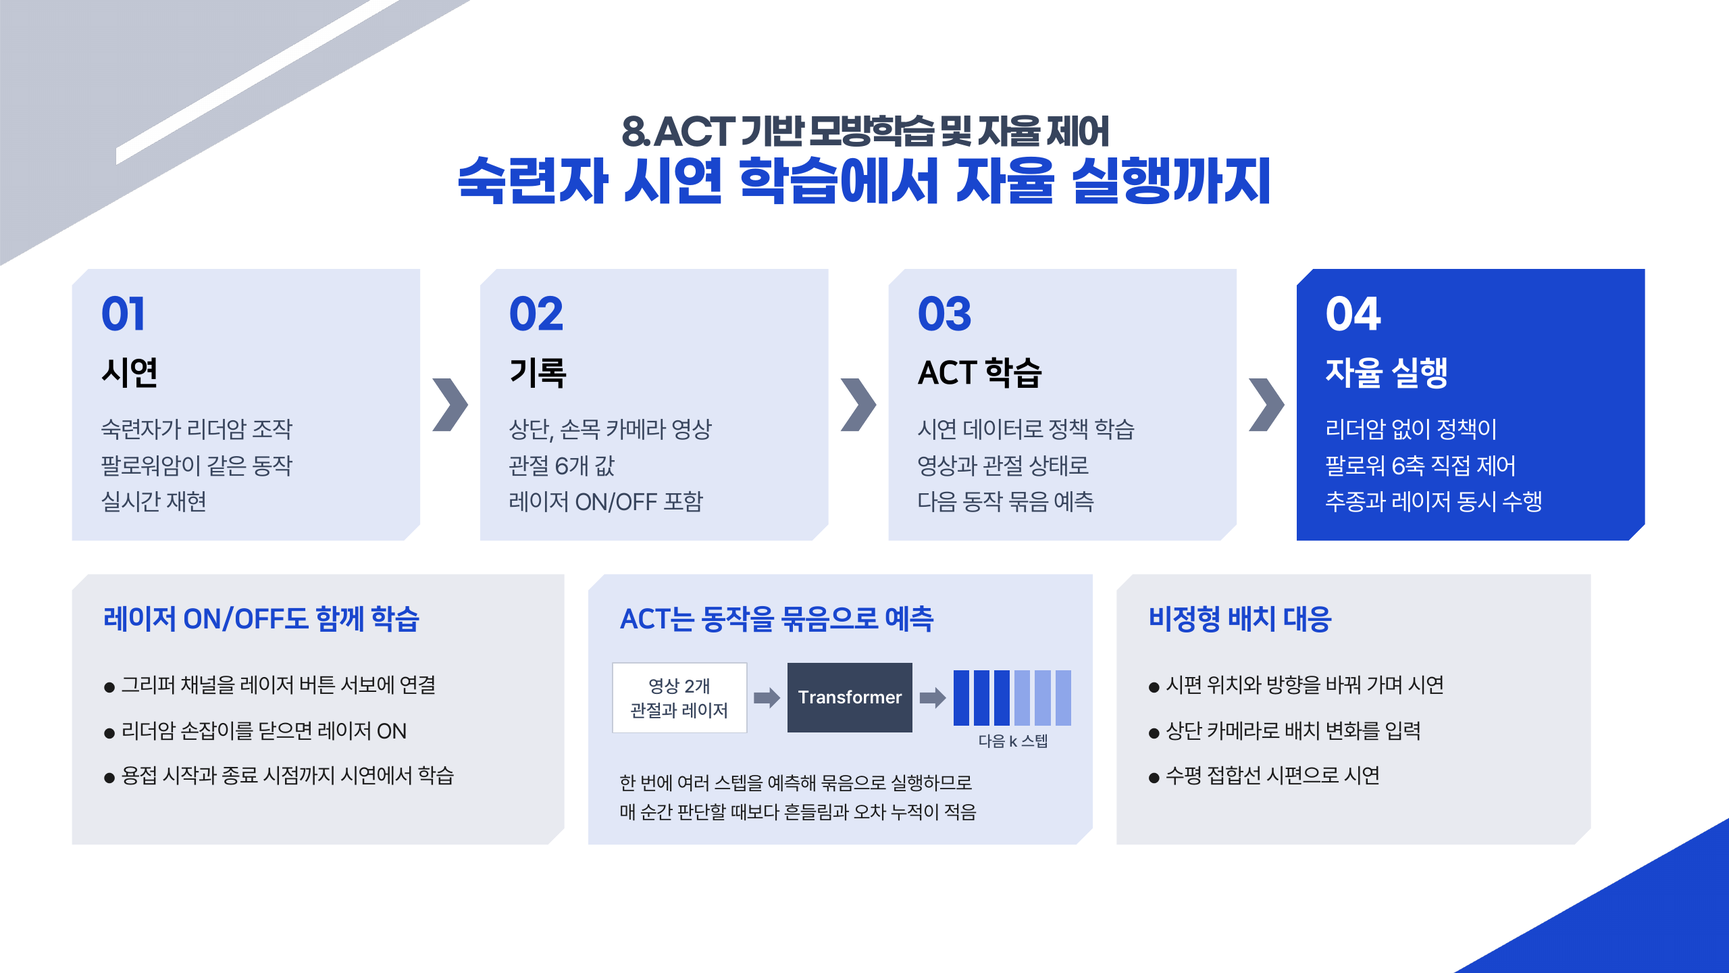
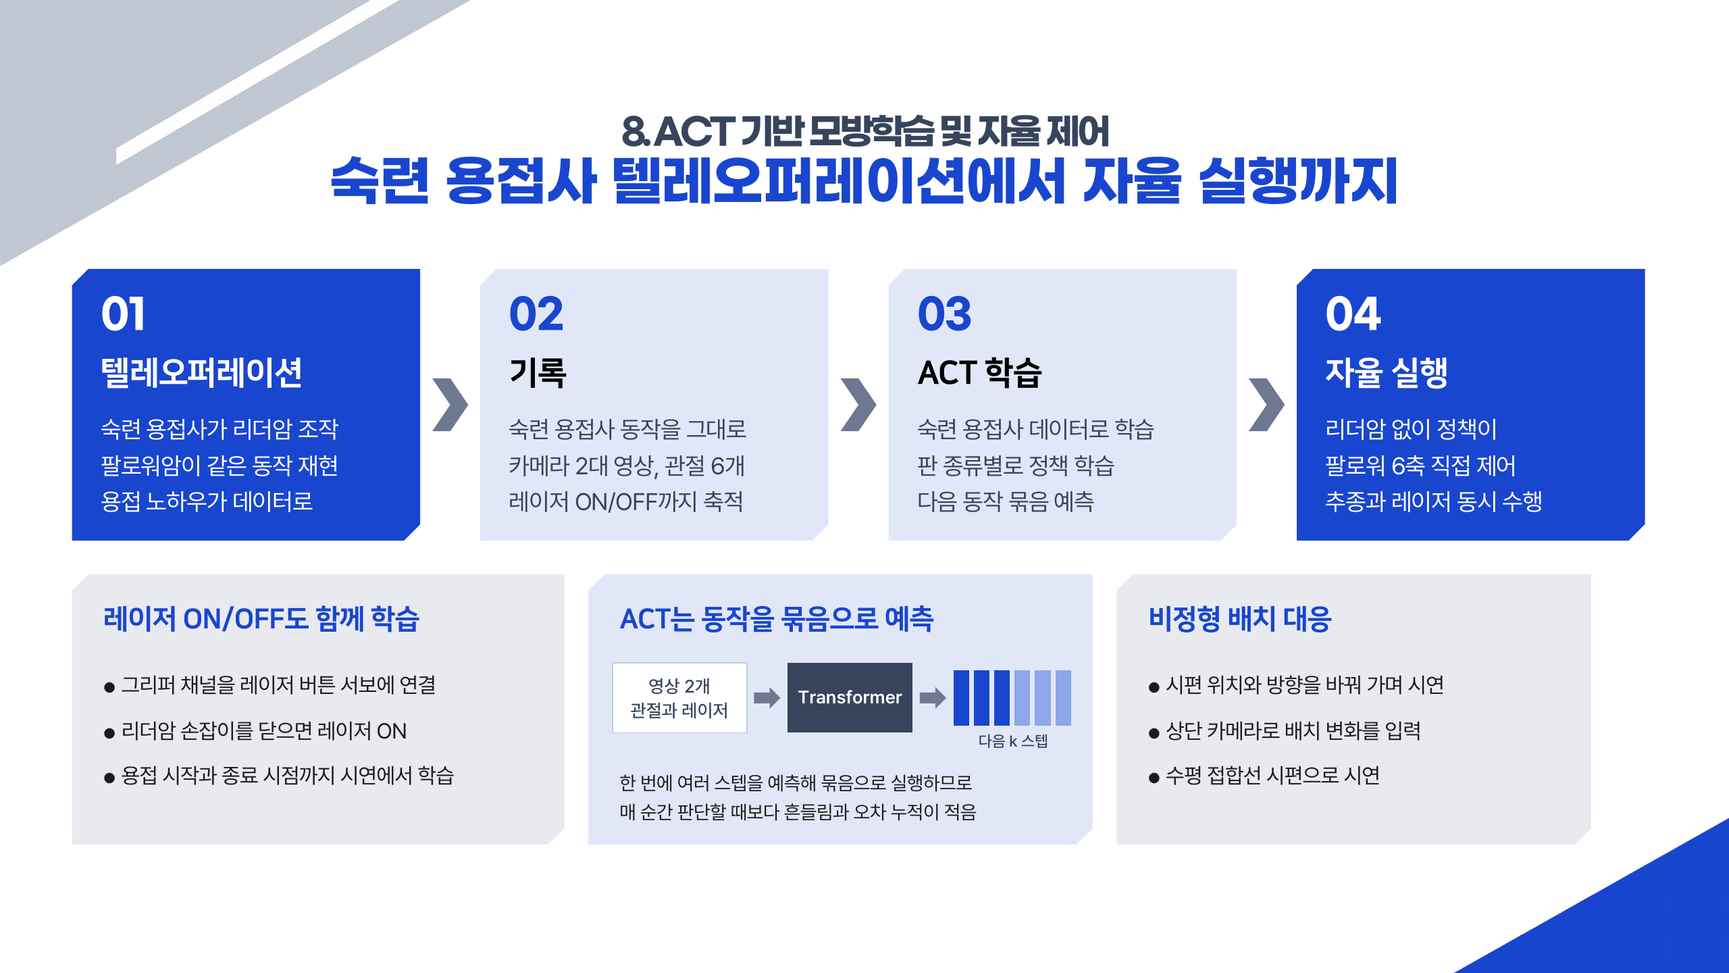
숙련 용접사의 텔레오퍼레이션으로 데이터를 쌓았다는 점을 9장과 15장에서 강조
- 15장: 부제를 '숙련 용접사 텔레오퍼레이션에서 자율 실행까지'로, 1단계를
  텔레오퍼레이션으로 바꿔 자율 실행과 함께 파란 카드로 강조
- 9장: ACT 카드에 '숙련 용접사 데이터' 표시와 강조 문구 추가
- 소개 페이지 개요와 데이터 수집 표도 같은 내용으로

diff --git a/index.html b/index.html
@@ -49,52 +49,52 @@
 </head>
 <body>
 <main class="stage" id="stage">
-  <img class="slide" src="deck/final/01.png?v=11130909" alt="2026 IRC 지능로봇대회 매니퓰레이터 종목. 제조 디지털 전환(DX) 6축 자율용접 로봇. 손태산, 김광빈, 김동희, 왕혜영">
-  <img class="slide" src="deck/final/02.png?v=11130909" alt="목차" loading="lazy">
-  <img class="slide" src="deck/final/03.png?v=11130909" alt="1. 프로젝트 개요. 6축 자율용접 로봇. 왼쪽은 코너 시편의 용접선을 초록 레이저로 따라가는 로봇 사진" loading="lazy">
-  <img class="slide" src="deck/final/04.png?v=11130909" alt="2. 프로젝트 수행 배경: 숙련 기술의 단절과 기존 자동용접의 한계. 실내 철골 제작공장 자동용접 사진, 강교량 야외 건설현장 사진" loading="lazy">
-  <img class="slide" src="deck/final/05.png?v=11130909" alt="3. 프로젝트 수행 필요성: 숙련 기술의 계승과 비정형 환경 대응을 위한 자율용접 기술의 필요성" loading="lazy">
+  <img class="slide" src="deck/final/01.png?v=11130919" alt="2026 IRC 지능로봇대회 매니퓰레이터 종목. 제조 디지털 전환(DX) 6축 자율용접 로봇. 손태산, 김광빈, 김동희, 왕혜영">
+  <img class="slide" src="deck/final/02.png?v=11130919" alt="목차" loading="lazy">
+  <img class="slide" src="deck/final/03.png?v=11130919" alt="1. 프로젝트 개요. 6축 자율용접 로봇. 왼쪽은 코너 시편의 용접선을 초록 레이저로 따라가는 로봇 사진" loading="lazy">
+  <img class="slide" src="deck/final/04.png?v=11130919" alt="2. 프로젝트 수행 배경: 숙련 기술의 단절과 기존 자동용접의 한계. 실내 철골 제작공장 자동용접 사진, 강교량 야외 건설현장 사진" loading="lazy">
+  <img class="slide" src="deck/final/05.png?v=11130919" alt="3. 프로젝트 수행 필요성: 숙련 기술의 계승과 비정형 환경 대응을 위한 자율용접 기술의 필요성" loading="lazy">
   <div class="slide">
-    <img src="deck/final/06.png?v=11130909" alt="4. 개발 목표 및 차별성: 룰 베이스를 넘어 숙련 행동 학습으로. OPTi3 용접로봇 전시 시연과 실제 아크 용접 영상, 기존 룰 베이스와 본 프로젝트 비교, 최종 개발 목표" loading="lazy">
+    <img src="deck/final/06.png?v=11130919" alt="4. 개발 목표 및 차별성: 룰 베이스를 넘어 숙련 행동 학습으로. OPTi3 용접로봇 전시 시연과 실제 아크 용접 영상, 기존 룰 베이스와 본 프로젝트 비교, 최종 개발 목표" loading="lazy">
     <!-- PPT 6장 영상 자리(x 60/468, y 270, 392×294pt / 1440×810pt)에 맞춰 올린 6초~20초 구간 GIF -->
-    <img class="clip" style="left:4.1667%; top:33.333%; width:27.222%; height:36.296%;" src="deck/img/opti3_demo.gif?v=11130909" alt="OPTi3 전시 시연 6초에서 20초 구간" loading="lazy">
-    <img class="clip" style="left:32.5%; top:33.333%; width:27.222%; height:36.296%;" src="deck/img/opti3_arc.gif?v=11130909" alt="OPTi3 실제 아크 용접 6초에서 20초 구간" loading="lazy">
+    <img class="clip" style="left:4.1667%; top:33.333%; width:27.222%; height:36.296%;" src="deck/img/opti3_demo.gif?v=11130919" alt="OPTi3 전시 시연 6초에서 20초 구간" loading="lazy">
+    <img class="clip" style="left:32.5%; top:33.333%; width:27.222%; height:36.296%;" src="deck/img/opti3_arc.gif?v=11130919" alt="OPTi3 실제 아크 용접 6초에서 20초 구간" loading="lazy">
   </div>
-  <img class="slide" src="deck/final/07.png?v=11130909" alt="5. 개발 대상 및 자율 작업 시나리오: 수평 접합선에 대응하는 자율용접 작업 구현. 3면 직각 시편과 T형 필릿 시편" loading="lazy">
-  <img class="slide" src="deck/final/08.png?v=11130909" alt="6. 시스템 구성 및 하드웨어 설계: 자율용접 로봇 시스템 아키텍처. 영상은 V4L2로 캡처해 ZMQ로 나눠 주고, YOLO가 판 종류를 판정해 ACT 정책을 고르며 용접선 끝점을 표시함. 그 영상과 손목 영상으로 ACT 정책이 다음 동작을 냄. 손 검출 시 정지, 진행 표시와 영상은 FastAPI 웹 대시보드로" loading="lazy">
-  <img class="slide" src="deck/final/09.png?v=11130909" alt="6. 시스템 구성 및 하드웨어 설계: 역할을 나눈 세 가지 AI. YOLO 용접선 검출(판 종류 판정과 정책 선택, 끝점 표시), ACT 모방학습(판 종류별 정책으로 제어), 손 검출 인터록(안전)" loading="lazy">
-  <img class="slide" src="deck/final/10.png?v=11130909" alt="6. 시스템 구성 및 하드웨어 설계: 하드웨어 설계. SolidWorks 조립 기반 6축 매니퓰레이터와 레이저 엔드이펙터 렌더, 엔드이펙터 CAD, 매니퓰레이터, 엔드이펙터, 카메라, 개선 내용" loading="lazy">
-  <img class="slide" src="deck/final/11.png?v=11130909" alt="6. 시스템 구성 및 하드웨어 설계: 직접 개선한 기술. 엔드이펙터 설계 변천 v1, v2, v3, 최종 레이저 일체형" loading="lazy">
+  <img class="slide" src="deck/final/07.png?v=11130919" alt="5. 개발 대상 및 자율 작업 시나리오: 수평 접합선에 대응하는 자율용접 작업 구현. 3면 직각 시편과 T형 필릿 시편" loading="lazy">
+  <img class="slide" src="deck/final/08.png?v=11130919" alt="6. 시스템 구성 및 하드웨어 설계: 자율용접 로봇 시스템 아키텍처. 영상은 V4L2로 캡처해 ZMQ로 나눠 주고, YOLO가 판 종류를 판정해 ACT 정책을 고르며 용접선 끝점을 표시함. 그 영상과 손목 영상으로 ACT 정책이 다음 동작을 냄. 손 검출 시 정지, 진행 표시와 영상은 FastAPI 웹 대시보드로" loading="lazy">
+  <img class="slide" src="deck/final/09.png?v=11130919" alt="6. 시스템 구성 및 하드웨어 설계: 역할을 나눈 세 가지 AI. YOLO 용접선 검출(판 종류 판정과 정책 선택, 끝점 표시), ACT 모방학습(숙련 용접사 텔레오퍼레이션 데이터로 학습, 판 종류별 정책으로 제어), 손 검출 인터록(안전)" loading="lazy">
+  <img class="slide" src="deck/final/10.png?v=11130919" alt="6. 시스템 구성 및 하드웨어 설계: 하드웨어 설계. SolidWorks 조립 기반 6축 매니퓰레이터와 레이저 엔드이펙터 렌더, 엔드이펙터 CAD, 매니퓰레이터, 엔드이펙터, 카메라, 개선 내용" loading="lazy">
+  <img class="slide" src="deck/final/11.png?v=11130919" alt="6. 시스템 구성 및 하드웨어 설계: 직접 개선한 기술. 엔드이펙터 설계 변천 v1, v2, v3, 최종 레이저 일체형" loading="lazy">
   <div class="slide">
-    <img src="deck/final/12.png?v=11130909" alt="7. 실시간 작업 모니터링: 웹 대시보드로 보는 영상과 로봇 상태" loading="lazy">
+    <img src="deck/final/12.png?v=11130919" alt="7. 실시간 작업 모니터링: 웹 대시보드로 보는 영상과 로봇 상태" loading="lazy">
     <!-- PPT 12장 대시보드 카메라 칸에 올린 실제 화면 녹화 GIF(코너 시편, 3배속) -->
-    <img class="clip" style="left:4.7222%; top:35.0617%; width:25.9722%; height:25.9259%;" src="deck/img/corner_dash_top.gif?v=11130909" alt="상단 카메라 실제 화면. 코너 시편 용접선 두 개가 파란색에서 빨간색으로 바뀜, 3배속" loading="lazy">
-    <img class="clip" style="left:31.8056%; top:35.0617%; width:25.9722%; height:25.9259%;" src="deck/img/corner_dash_wrist.gif?v=11130909" alt="손목 카메라 실제 화면. 시편 위 초록 레이저 점, 3배속" loading="lazy">
+    <img class="clip" style="left:4.7222%; top:35.0617%; width:25.9722%; height:25.9259%;" src="deck/img/corner_dash_top.gif?v=11130919" alt="상단 카메라 실제 화면. 코너 시편 용접선 두 개가 파란색에서 빨간색으로 바뀜, 3배속" loading="lazy">
+    <img class="clip" style="left:31.8056%; top:35.0617%; width:25.9722%; height:25.9259%;" src="deck/img/corner_dash_wrist.gif?v=11130919" alt="손목 카메라 실제 화면. 시편 위 초록 레이저 점, 3배속" loading="lazy">
     <span class="camlabel" style="left:4.7222%; top:57.5309%; width:25.9722%; height:3.4568%;">상단 카메라<b>LIVE</b></span>
     <span class="camlabel" style="left:31.8056%; top:57.5309%; width:25.9722%; height:3.4568%;">손목 카메라<b>LIVE</b></span>
     <span class="tag" style="left:26.6667%; top:36.0494%; width:3.4722%; height:2.7160%;">3배속</span>
     <span class="tag" style="left:53.7500%; top:36.0494%; width:3.4722%; height:2.7160%;">3배속</span>
   </div>
   <div class="slide">
-    <img src="deck/final/13.png?v=11130909" alt="7. 실시간 작업 모니터링: YOLO 용접선 검출과 진행 표시, 성공 판정 기준" loading="lazy">
+    <img src="deck/final/13.png?v=11130919" alt="7. 실시간 작업 모니터링: YOLO 용접선 검출과 진행 표시, 성공 판정 기준" loading="lazy">
     <!-- PPT 13장 가운데 칸(진행 중)에 올린 2배속 GIF -->
-    <img class="clip" style="left:34.0278%; top:28.1481%; width:27.7778%; height:37.0370%;" src="deck/img/t_yolo_progress.gif?v=11130909" alt="T자 시편 상단 카메라 화면. 레이저가 지나간 구간의 용접선이 파란색에서 빨간색으로 바뀜, 2배속" loading="lazy">
+    <img class="clip" style="left:34.0278%; top:28.1481%; width:27.7778%; height:37.0370%;" src="deck/img/t_yolo_progress.gif?v=11130919" alt="T자 시편 상단 카메라 화면. 레이저가 지나간 구간의 용접선이 파란색에서 빨간색으로 바뀜, 2배속" loading="lazy">
     <span class="tag" style="left:57.7778%; top:29.1358%; width:3.4722%; height:2.7160%;">2배속</span>
   </div>
-  <img class="slide" src="deck/final/14.png?v=11130909" alt="7. 실시간 작업 모니터링: YOLO 추론 최적화로 2.1배 가속. PyTorch에서 ONNX, TensorRT FP16 변환, 1회 추론 시간 중앙값 8.1 ms에서 3.8 ms, 정확도 유지, ACT 정책 변환 예정" loading="lazy">
-  <img class="slide" src="deck/final/15.png?v=11130909" alt="8. ACT 기반 모방학습 및 자율 제어: 시연, 기록, ACT 학습, 자율 실행, ACT는 동작을 묶음으로 예측" loading="lazy">
+  <img class="slide" src="deck/final/14.png?v=11130919" alt="7. 실시간 작업 모니터링: YOLO 추론 최적화로 2.1배 가속. PyTorch에서 ONNX, TensorRT FP16 변환, 1회 추론 시간 중앙값 8.1 ms에서 3.8 ms, 정확도 유지, ACT 정책 변환 예정" loading="lazy">
+  <img class="slide" src="deck/final/15.png?v=11130919" alt="8. ACT 기반 모방학습 및 자율 제어: 숙련 용접사 텔레오퍼레이션에서 자율 실행까지. 숙련 용접사가 리더암으로 텔레오퍼레이션하며 데이터를 쌓고, 기록, 판 종류별 ACT 학습, 자율 실행. ACT는 동작을 묶음으로 예측" loading="lazy">
   <div class="slide">
-    <img src="deck/final/16.png?v=11130909" alt="9. 자율 용접 시연: 임의 배치 시편 자율용접 시연, 확인 항목 8개, 시연 시편(T자 필릿, 3면 직각)" loading="lazy">
+    <img src="deck/final/16.png?v=11130919" alt="9. 자율 용접 시연: 임의 배치 시편 자율용접 시연, 확인 항목 8개, 시연 시편(T자 필릿, 3면 직각)" loading="lazy">
     <!-- PPT 16장 시연 영상 자리(1440×810pt 기준)에 올린 2배속 GIF와 배속 표시 -->
-    <img class="clip" style="left:8.2509%; top:29.1358%; width:22.8602%; height:42.4691%;" src="deck/img/t_demo.gif?v=11130909" alt="T자 필릿 시편 자율용접 시연, 2배속" loading="lazy">
-    <img class="clip" style="left:32.7778%; top:29.1358%; width:22.8602%; height:42.4691%;" src="deck/img/corner_demo.gif?v=11130909" alt="3면 직각 코너 시편 자율용접 시연, 2배속" loading="lazy">
+    <img class="clip" style="left:8.2509%; top:29.1358%; width:22.8602%; height:42.4691%;" src="deck/img/t_demo.gif?v=11130919" alt="T자 필릿 시편 자율용접 시연, 2배속" loading="lazy">
+    <img class="clip" style="left:32.7778%; top:29.1358%; width:22.8602%; height:42.4691%;" src="deck/img/corner_demo.gif?v=11130919" alt="3면 직각 코너 시편 자율용접 시연, 2배속" loading="lazy">
     <span class="tag" style="left:27.0833%; top:30.1235%; width:3.4722%; height:2.7160%;">2배속</span>
     <span class="tag" style="left:51.6102%; top:30.1235%; width:3.4722%; height:2.7160%;">2배속</span>
   </div>
-  <img class="slide" src="deck/final/17.png?v=11130909" alt="9. 자율 용접 시연: 성공 판정 기준. 시편 인식, 시작점 접근, 토치 거리 유지, 레이저 ON, 용접선 추종, 종료점 도달, 레이저 OFF, 원위치 복귀의 8개 항목을 모두 통과해야 성공. 용접선 추종은 경로 이탈 5mm 이하와 용접선의 90% 이상이 빨간색으로 바뀌는 것" loading="lazy">
-  <img class="slide" src="deck/final/18.png?v=11130909" alt="9. 자율 용접 시연: 시연 결과. 학습한 배치 40회 중 39회(97.5%), 처음 보는 배치 40회 중 37회(92.5%) 성공. 성공 기준은 8개 판정 항목을 모두 통과한 시도. 인터록 반응 시간 최대 약 100 ms(계산값)" loading="lazy">
-  <img class="slide" src="deck/final/19.png?v=11130909" alt="10. 결론 및 향후 과제" loading="lazy">
-  <img class="slide" src="deck/final/20.png?v=11130909" alt="10. 결론 및 향후 과제: 한계점과 향후 과제, 홈페이지 QR 코드" loading="lazy">
+  <img class="slide" src="deck/final/17.png?v=11130919" alt="9. 자율 용접 시연: 성공 판정 기준. 시편 인식, 시작점 접근, 토치 거리 유지, 레이저 ON, 용접선 추종, 종료점 도달, 레이저 OFF, 원위치 복귀의 8개 항목을 모두 통과해야 성공. 용접선 추종은 경로 이탈 5mm 이하와 용접선의 90% 이상이 빨간색으로 바뀌는 것" loading="lazy">
+  <img class="slide" src="deck/final/18.png?v=11130919" alt="9. 자율 용접 시연: 시연 결과. 학습한 배치 40회 중 39회(97.5%), 처음 보는 배치 40회 중 37회(92.5%) 성공. 성공 기준은 8개 판정 항목을 모두 통과한 시도. 인터록 반응 시간 최대 약 100 ms(계산값)" loading="lazy">
+  <img class="slide" src="deck/final/19.png?v=11130919" alt="10. 결론 및 향후 과제" loading="lazy">
+  <img class="slide" src="deck/final/20.png?v=11130919" alt="10. 결론 및 향후 과제: 한계점과 향후 과제, 홈페이지 QR 코드" loading="lazy">
 </main>
 
 <div class="bar">

diff --git a/project.html b/project.html
@@ -102,11 +102,11 @@
   <h2><small>01</small>무엇을 만들었나</h2>
   <div class="two">
     <figure>
-      <img class="tall" src="project/img/robot_corner_laser.jpg?v=11130909" alt="자체 제작 6축 로봇이 코너 시편의 용접선을 초록 레이저로 따라가는 장면" loading="lazy">
+      <img class="tall" src="project/img/robot_corner_laser.jpg?v=11130919" alt="자체 제작 6축 로봇이 코너 시편의 용접선을 초록 레이저로 따라가는 장면" loading="lazy">
       <figcaption>코너 시편의 용접선을 레이저로 따라가는 자체 제작 6축 로봇</figcaption>
     </figure>
     <div>
-      <p class="lead">숙련 용접공의 고령화로 기술이 끊길 우려가 있고, 기존 교시 기반 자동용접은 작업물 위치가 매번 바뀌는 건설현장에 쓰기 어렵습니다. 그래서 숙련자가 리더암으로 시연한 동작을 ACT 모방학습으로 배워, 임의로 놓인 시편을 스스로 용접하는 로봇을 만들었습니다.</p>
+      <p class="lead">숙련 용접공의 고령화로 기술이 끊길 우려가 있고, 기존 교시 기반 자동용접은 작업물 위치가 매번 바뀌는 건설현장에 쓰기 어렵습니다. 그래서 <b>숙련 용접사가 리더암으로 텔레오퍼레이션하며 직접 쌓은 시연 데이터</b>를 ACT 모방학습으로 배워, 임의로 놓인 시편을 스스로 용접하는 로봇을 만들었습니다.</p>
       <p>실제 아크 대신 레이저 포인터로 토치 끝 위치를 보여 주는 가상 용접으로 검증했습니다. 이번 범위는 수평 접합선입니다.</p>
     </div>
   </div>
@@ -126,7 +126,7 @@
 <section id="system">
   <h2><small>02</small>시스템 구성</h2>
   <figure>
-    <img src="project/img/architecture.png?v=11130909" alt="시스템 구성도. 카메라 영상은 V4L2로 캡처해 ZMQ로 나눠 줌. YOLO가 판 종류를 판정해 ACT 정책을 고르고 용접선 끝점을 표시하며, 그 영상과 손목 카메라 영상이 ACT 정책으로 들어감. 정책의 목표 관절값이 서보 제어를 거쳐 6축 매니퓰레이터와 엔드이펙터로 전달됨. 손 검출 시 정지, 진행 표시와 영상은 FastAPI 웹 대시보드로 전송" loading="lazy">
+    <img src="project/img/architecture.png?v=11130919" alt="시스템 구성도. 카메라 영상은 V4L2로 캡처해 ZMQ로 나눠 줌. YOLO가 판 종류를 판정해 ACT 정책을 고르고 용접선 끝점을 표시하며, 그 영상과 손목 카메라 영상이 ACT 정책으로 들어감. 정책의 목표 관절값이 서보 제어를 거쳐 6축 매니퓰레이터와 엔드이펙터로 전달됨. 손 검출 시 정지, 진행 표시와 영상은 FastAPI 웹 대시보드로 전송" loading="lazy">
   </figure>
   <ul class="plain">
     <li>카메라 2대(상단, 손목) 영상을 V4L2로 직접 캡처해 ZMQ로 여러 프로세스에 나눠 줍니다.</li>
@@ -157,7 +157,7 @@
   <h3>엔드이펙터 출력 파일</h3>
   <div class="two">
     <figure>
-      <img src="project/img/ee_cad.png?v=11130909" alt="최종 레이저 일체형 엔드이펙터 CAD. 서보와 본체, 레이저 포인터를 잡는 집게와 브래킷" loading="lazy">
+      <img src="project/img/ee_cad.png?v=11130919" alt="최종 레이저 일체형 엔드이펙터 CAD. 서보와 본체, 레이저 포인터를 잡는 집게와 브래킷" loading="lazy">
       <figcaption>최종 레이저 일체형 엔드이펙터</figcaption>
     </figure>
     <div>
@@ -181,7 +181,7 @@
   <h2><small>04</small>엔드이펙터 개선 과정</h2>
   <div class="two">
     <figure>
-      <img src="project/img/ee_torch_old.jpg?v=11130909" alt="1차 설계인 OPTi3 축소 토치형 엔드이펙터 CAD. 토치 옆에 레이저와 서보가 달려 있음" loading="lazy">
+      <img src="project/img/ee_torch_old.jpg?v=11130919" alt="1차 설계인 OPTi3 축소 토치형 엔드이펙터 CAD. 토치 옆에 레이저와 서보가 달려 있음" loading="lazy">
       <figcaption>1차 설계: OPTi3 축소 토치형 (토치 단축, 레이저 후퇴 적용 후)</figcaption>
     </figure>
     <div>
@@ -203,7 +203,7 @@
   <table>
     <thead><tr><th>단계</th><th>내용</th></tr></thead>
     <tbody>
-      <tr><td class="n">시연</td><td>숙련자가 리더암을 잡고 움직이면 팔로워암이 실시간으로 같은 동작을 함</td></tr>
+      <tr><td class="n">시연</td><td>숙련 용접사가 리더암을 잡고 텔레오퍼레이션으로 시연하면 팔로워암이 실시간으로 같은 동작을 하고, 그 동작이 그대로 데이터로 쌓임</td></tr>
       <tr><td class="n">기록</td><td>카메라 2대 영상, 관절 6개 값과 레이저 ON/OFF 채널을 시간에 맞춰 함께 저장</td></tr>
       <tr><td class="n">학습</td><td>판 종류(T판, ㄱ자)마다 ACT 정책을 따로 학습. 끝점이 표시된 탑뷰 영상, 손목 영상, 관절 상태를 보고 다음 동작을 묶음(action chunk)으로 예측</td></tr>
       <tr><td class="n">실행</td><td>YOLO가 판 종류를 판정해 정책을 고르면, 리더암 없이 그 정책이 팔로워 6축과 레이저를 직접 움직이며 추종과 레이저 ON/OFF를 함께 수행</td></tr>
@@ -262,26 +262,26 @@
   <p class="lead">임의로 놓은 시편을 로봇이 스스로 찾아 용접선을 따라가는 장면입니다. 휴대폰으로 찍은 영상을 2배속 GIF로 줄였습니다.</p>
   <div class="two">
     <figure>
-      <img src="deck/img/t_demo.gif?v=11130909" alt="T자 필릿 시편 자율용접 시연. 로봇이 일어나 시편에 다가가 초록 레이저로 용접선을 따라감, 2배속" loading="lazy">
+      <img src="deck/img/t_demo.gif?v=11130919" alt="T자 필릿 시편 자율용접 시연. 로봇이 일어나 시편에 다가가 초록 레이저로 용접선을 따라감, 2배속" loading="lazy">
       <figcaption>T자 필릿 시편 (2배속)</figcaption>
     </figure>
     <figure>
-      <img src="deck/img/corner_demo.gif?v=11130909" alt="3면 직각 코너 시편 자율용접 시연. 코너 안쪽 용접선을 초록 레이저로 따라감, 2배속" loading="lazy">
+      <img src="deck/img/corner_demo.gif?v=11130919" alt="3면 직각 코너 시편 자율용접 시연. 코너 안쪽 용접선을 초록 레이저로 따라감, 2배속" loading="lazy">
       <figcaption>3면 직각 코너 시편 (2배속)</figcaption>
     </figure>
   </div>
   <h3>YOLO 용접선 진행 표시 (실제 상단 카메라 화면)</h3>
   <div class="three">
     <figure>
-      <img src="project/img/yolo_before.png?v=11130909" alt="용접 전. 검출된 용접선 전체가 파란색" loading="lazy">
+      <img src="project/img/yolo_before.png?v=11130919" alt="용접 전. 검출된 용접선 전체가 파란색" loading="lazy">
       <figcaption>용접 전: 검출된 용접선 전체가 파란색</figcaption>
     </figure>
     <figure>
-      <img src="deck/img/t_yolo_progress.gif?v=11130909" alt="진행 중. 레이저가 지나간 구간만 빨간색으로 바뀜, 2배속" loading="lazy">
+      <img src="deck/img/t_yolo_progress.gif?v=11130919" alt="진행 중. 레이저가 지나간 구간만 빨간색으로 바뀜, 2배속" loading="lazy">
       <figcaption>진행 중: 레이저가 지나간 구간만 빨간색 (2배속)</figcaption>
     </figure>
     <figure>
-      <img src="project/img/yolo_done.png?v=11130909" alt="완료. 용접선 전 구간이 빨간색" loading="lazy">
+      <img src="project/img/yolo_done.png?v=11130919" alt="완료. 용접선 전 구간이 빨간색" loading="lazy">
       <figcaption>완료: 용접선 전 구간이 빨간색</figcaption>
     </figure>
   </div>
